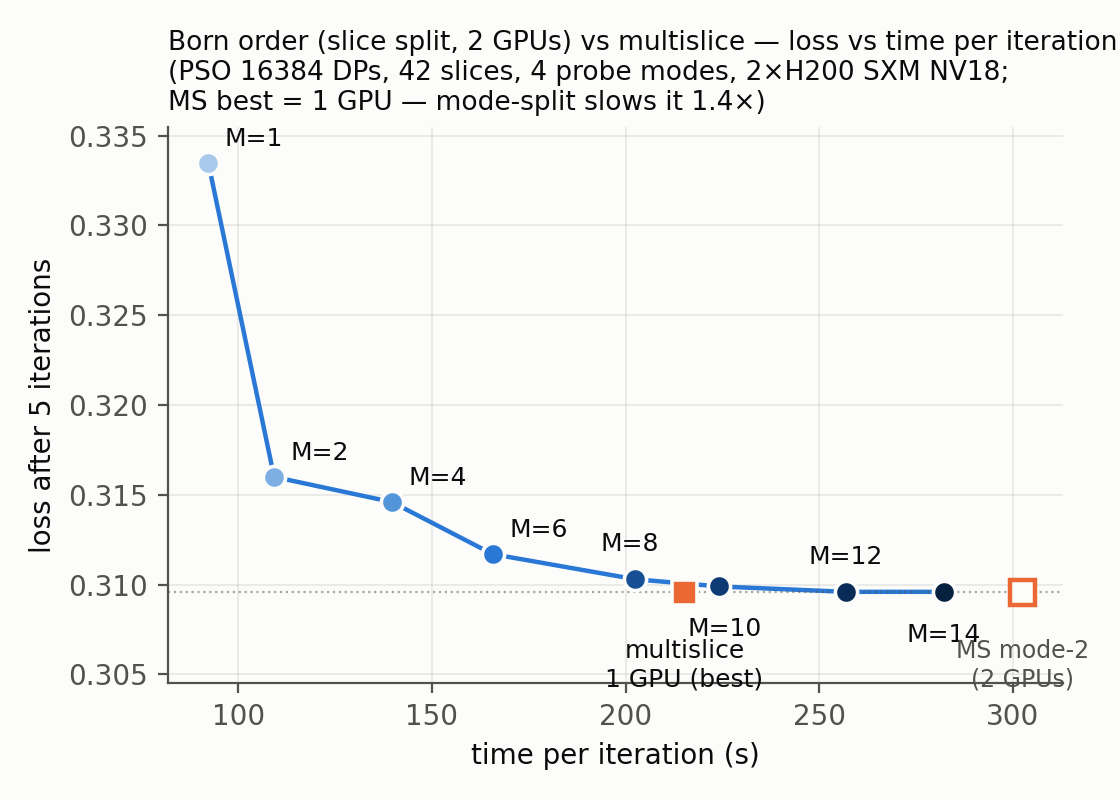
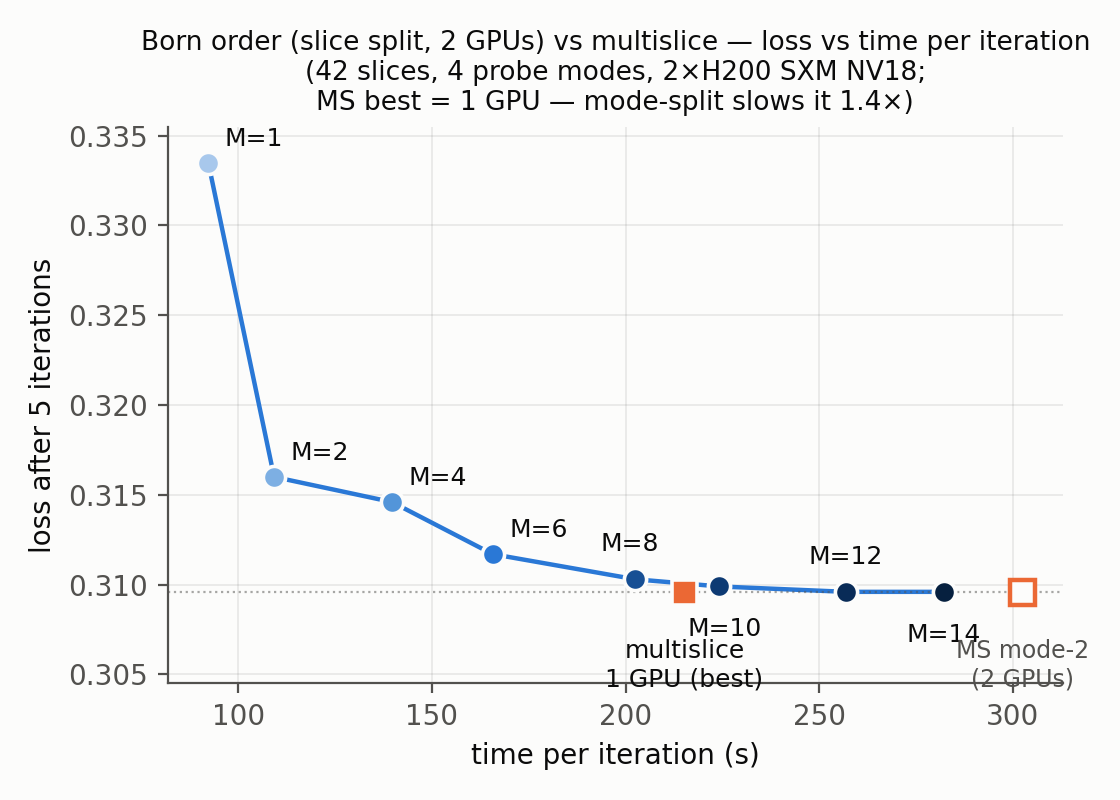
Pareto titles centred, PSO DP count dropped from subtitles

Changed region(s): [[0.125, 0.0312, 1.0, 0.1562]]

diff --git a/demo/nvlink/redo/make_figs_h200.py b/demo/nvlink/redo/make_figs_h200.py
@@ -99,18 +99,18 @@ def pareto(name, show_ms1, show_ms2, subtitle,
     ax.set_ylim(0.3045, 0.3355)
     ax.set_xlabel("time per iteration (s)")
     ax.set_ylabel("loss after 5 iterations")
-    ax.set_title(titleline + "\n" + subtitle, fontsize=9.5, loc="left")
+    ax.set_title(titleline + "\n" + subtitle, fontsize=9.5, loc="center")
     ax.grid(axis="both", color=INK2, alpha=0.12, linewidth=0.6)
     save(fig, name)
 
 pareto("fig_h200_pareto", True, True,
-       "(PSO 16384 DPs, 42 slices, 4 probe modes, 2×H200 SXM NV18;\n"
+       "(42 slices, 4 probe modes, 2×H200 SXM NV18;\n"
        "MS best = 1 GPU — mode-split slows it 1.4×)")
 pareto("fig_h200_pareto_ms1gpu", True, False,
-       "(PSO 16384 DPs, 42 slices, 4 probe modes, 2×H200 SXM NV18;\n"
+       "(42 slices, 4 probe modes, 2×H200 SXM NV18;\n"
        "multislice shown at its best: 1 GPU)")
 pareto("fig_h200_pareto_ms2only", False, True,
-       "(PSO 16384 DPs, 42 slices, 4 probe modes, 2×H200 SXM NV18)",
+       "(42 slices, 4 probe modes, 2×H200 SXM NV18)",
        titleline="Born order (slice split) vs multislice (mode split)\n"
                  "— loss vs time per iteration")
 
